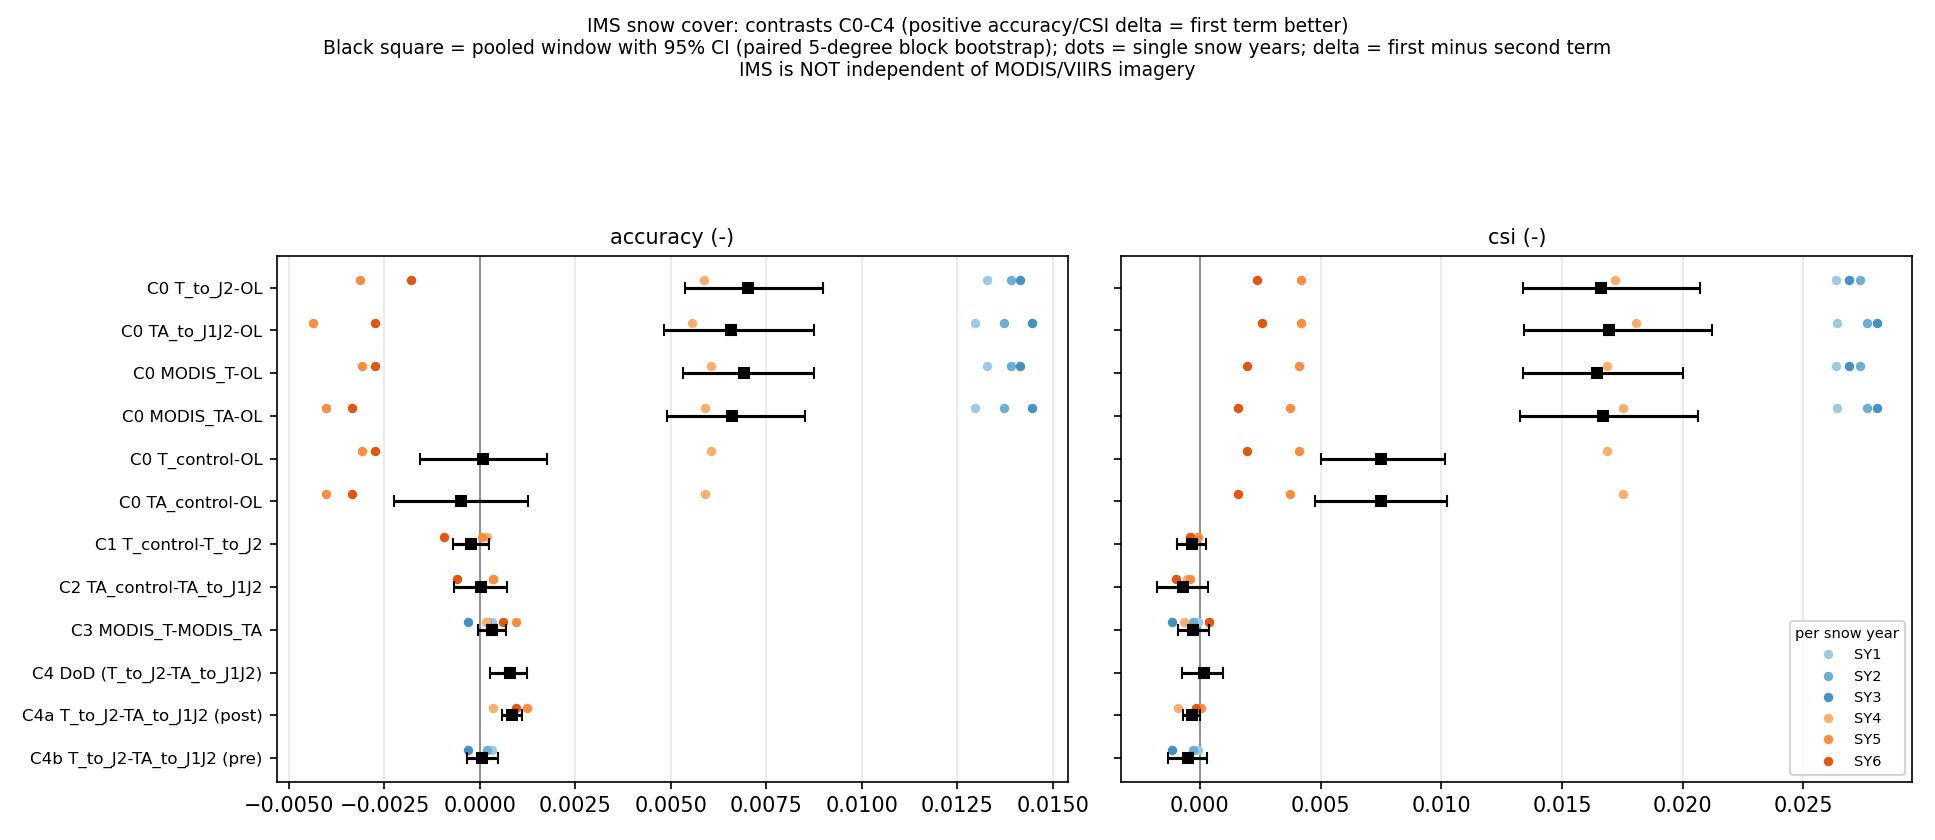
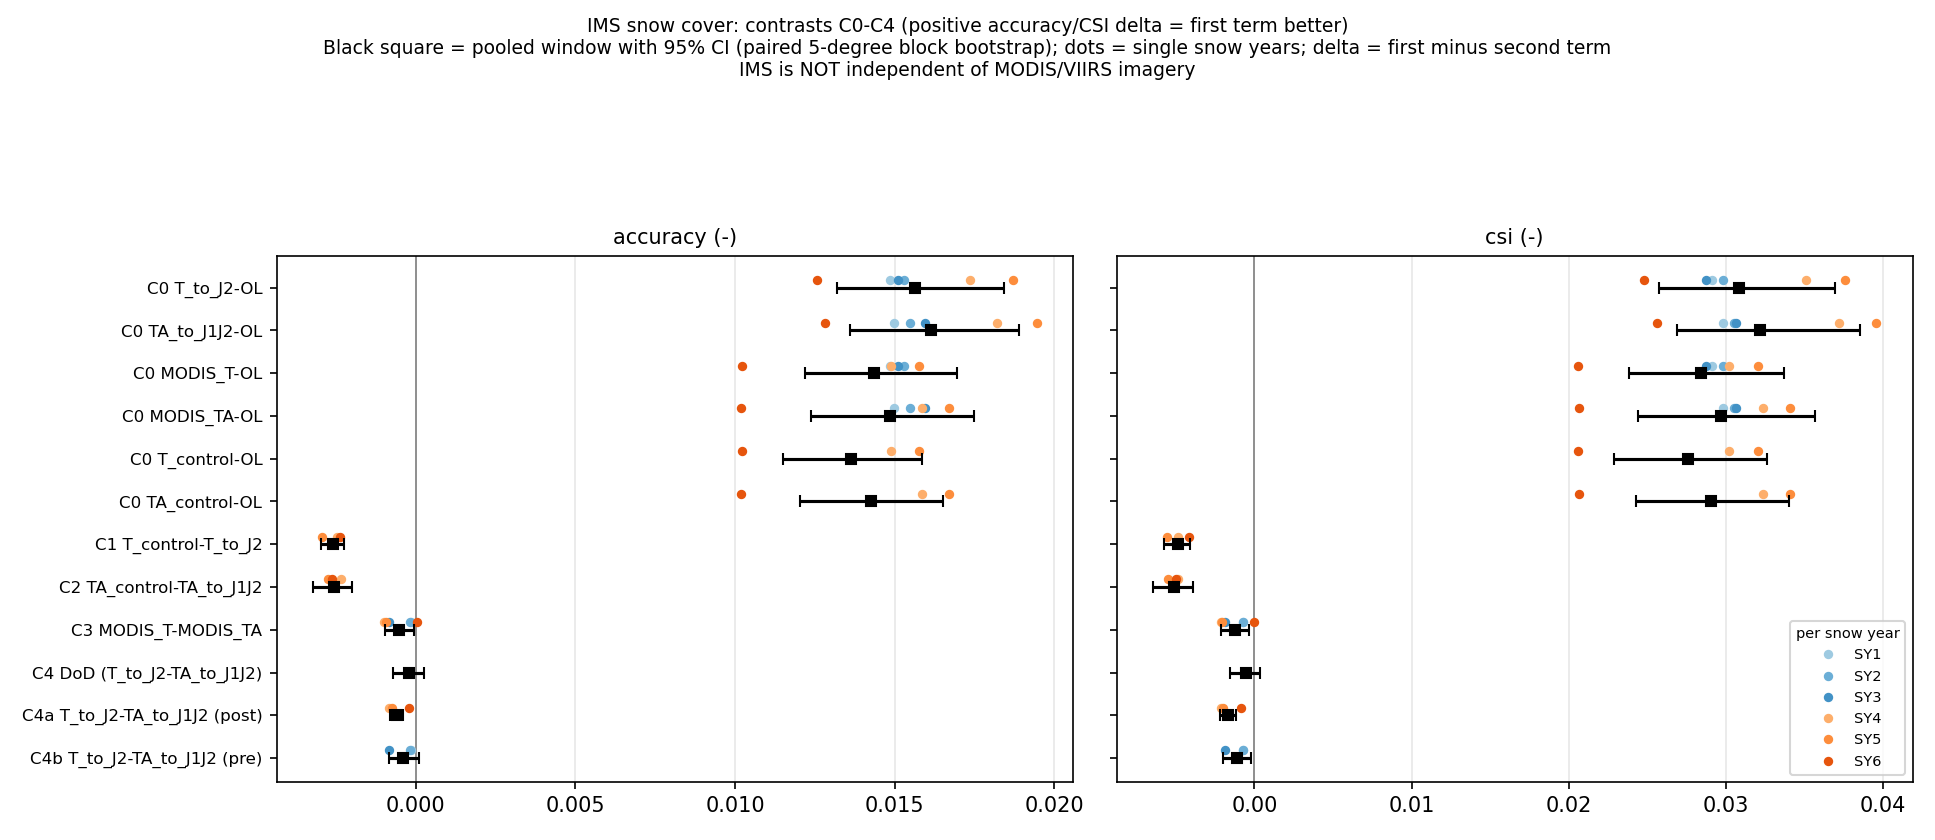
viirs_snow: propagate corrected IMS to report/plan/figC_1; GHCN CI fix; extra gap days; B/D reconcile

diff --git a/projects/viirs_snow/scripts/viirs_transition/skill_figures.py b/projects/viirs_snow/scripts/viirs_transition/skill_figures.py
@@ -7,6 +7,9 @@ import matplotlib.pyplot as plt
 sys.path.insert(0, str(Path(__file__).parent))
 import skill_common as sc
 ct = pd.read_csv(sc.FIG / "C_skill_contrasts.csv"); ab = pd.read_csv(sc.FIG / "C_skill_by_arm.csv")
+# IMS rows: use the flip-corrected scoring (IMS_skill_contrasts_fixed.csv; 2024+ IMS arrays are vertically flipped in the original C scoring)
+_fx = pd.read_csv(sc.FIG / "IMS_skill_contrasts_fixed.csv").assign(dataset="IMS")
+ct = pd.concat([ct[ct.dataset != "IMS"], _fx[[c for c in ct.columns if c in _fx.columns]]], ignore_index=True)
 ORDER = ["C0 T_to_J2-OL", "C0 TA_to_J1J2-OL", "C0 MODIS_T-OL", "C0 MODIS_TA-OL", "C0 T_control-OL", "C0 TA_control-OL",
          "C1 T_control-T_to_J2", "C2 TA_control-TA_to_J1J2", "C3 MODIS_T-MODIS_TA", "C4 DoD (T_to_J2-TA_to_J1J2)",
          "C4a T_to_J2-TA_to_J1J2 (post)", "C4b T_to_J2-TA_to_J1J2 (pre)"]

diff --git a/projects/viirs_snow/docs/viirs_transition_report.md b/projects/viirs_snow/docs/viirs_transition_report.md
@@ -29,7 +29,9 @@ QC, number of updates per day), not of the sensors alone.
 - **Volume.** Mean annual absolute increment (kg m-2 yr-1, per tile >= 30N): Terra-only about 65-76, Terra+Aqua MODIS
   about 120-138, `TA_to_J1J2` after the switch 79-85 (a ~35% drop at the switch). The VIIRS configuration is closer to
   Terra-only in volume than to Terra+Aqua MODIS. Net/abs is 64-71% in all arms; 1.7-3.3% of increments hit the
-  5 kg m-2 cap, so no arm is cap-dominated.
+  5 kg m-2 cap, so no arm is cap-dominated. B's per-tile totals (about 79-82 kg m-2 per year for Terra+Aqua) are
+  unweighted means over tiles >= 30N; D's `I_snow` (105-134 kg m-2 per snow year) is area-weighted over the
+  seasonal-snow mask. The two agree once weighting and tile set are matched (see `BD_reconcile.md`).
 - **The first update does most of the work:** Aqua RMS O-F (SCF) goes 0.32 (OL) -> 0.244 (Terra assimilated) -> 0.237
   (Terra+Aqua); J1 0.320 -> 0.2725 (J2 only) -> 0.2689 (J1+J2).
 - **Coverage (A):** the VIIRS union covers about 6-7% fewer tiles than MODIS Terra+Aqua; J2 adds about 7% over J1.
@@ -37,9 +39,9 @@ QC, number of updates per day), not of the sensors alone.
 ## Q1. Does the MODIS -> VIIRS switch change skill and water balance?
 
 **Skill (analysis C; IMS is not independent of MODIS/VIIRS imagery, so SNOTEL SWE and GHCN depth carry the conclusion).**
-DA beats OL in all three data sets over SY1-6, but the effect is small: IMS accuracy 82.2 -> 82.9%, SNOTEL SWE RMSE
+DA beats OL in all three data sets over SY1-6, but the effect is small: IMS accuracy +0.014..+0.016 (OL 90.6% -> DA 92.1-92.3%, after the 2024+ IMS orientation fix), SNOTEL SWE RMSE
 -1.0..-1.3 mm (of ~208 mm), GHCN depth RMSE -1.2..-1.9 mm (of ~114 mm); the model has a large low bias at SNOTEL (SWE
-about -134 mm). For the switch (C1, C2) IMS shows no resolvable difference. Against SNOTEL SWE the MODIS control is resolvably worse than
+about -134 mm). For the switch (C1, C2) IMS slightly favours VIIRS (MODIS - VIIRS accuracy -0.0026 for both, same sign in SY4-6, CI excludes 0; about 17% of the DA - OL effect; IMS is not independent of the imagery, so this may partly reflect shared inputs). Against SNOTEL SWE the MODIS control is resolvably worse than
 VIIRS only for Terra vs J2 (RMSE +0.39 mm, same sign all three years, CI excludes 0); for T+A vs J1+J2 (+0.26 mm) the CI
 excludes 0 but SY6 reverses, so it is not resolvable. Against GHCN depth both are resolvable (+0.93 / +0.23 mm). SNOTEL depth
 is not resolvable for C1 or C2. These differences are one to two orders of magnitude smaller than the RMSE.
@@ -69,34 +71,33 @@ m3 m-3 as a year mean.
   -0.0058], resolvable in every season. About 74% of mask tiles are marked for `I_snow` (same sign in all 6 years and
   FDR-corrected t-test); end-of-melt SWE almost none. `I_snow`, ET, runoff and RZMC pass the rule; peak SWE does not (+0.16; mean 14% of the reference, below 10% in at least one year). Against independent data Aqua helps slightly
   (resolvable by the skill rule): SNOTEL SWE RMSE +0.23 mm and GHCN +0.60 mm for Terra-only, but Terra-only is better against SNOTEL depth
-  (-0.53 mm; also resolvable) and IMS is ~0 (+0.0003, CI includes 0, not resolvable). So dropping Aqua changes the water budget a lot and the skill very
+  (-0.53 mm; also resolvable) and IMS is about 0 (-0.0005 [-0.0010, -0.0001], but SY6 is 0.0000 so the same-sign rule is not met; not flagged). So dropping Aqua changes the water budget a lot and the skill very
   little.
 - **VIIRS, J2 vs J1+J2 (C4).** Raw J2-only - J1+J2: `I_snow` about -14 (-14.3, -13.6, -14.1), runoff about -8, same sign
   in all three years (passes the rule for `I_snow`, ET, runoff, peak SWE, RZMC). As a difference of differences (subtracting the Terra - T+A gap of SY1-3) the sign flips to
   about +29 to +30, because the pre-switch gap was -43 to -48; the VIIRS second sensor therefore matters much less than
-  Aqua did in MODIS. Skill C4 is inconclusive in substance: the difference of differences has a CI that excludes 0 for IMS (+0.0008) and GHCN (-0.78 mm) (CI-only flag, no per-year signs), but the GHCN baseline has the opposite sign pre and post (+0.62 vs -0.16 mm); in the post window alone the rule flags IMS, SNOTEL SWE (+0.11 mm) and GHCN (-0.16 mm), not SNOTEL depth. Use C3 as the primary constellation estimate.
+  Aqua did in MODIS. Skill C4 is inconclusive in substance: the difference of differences has a CI that excludes 0 for GHCN (-0.78 mm [-0.99, -0.60]) (CI-only flag, no per-year signs) but not for IMS (-0.0002 [-0.0007, 0.0003]), but the GHCN baseline has the opposite sign pre and post (+0.62 vs -0.16 mm); in the post window alone the rule flags IMS (-0.0006), SNOTEL SWE (+0.11 mm) and GHCN (-0.16 mm), not SNOTEL depth. Use C3 as the primary constellation estimate.
 - **Partition:** the missing second-sensor water is mostly runoff (C3, C2) and for C4 storage differs (-0.14 of the
   difference), so interpret C4 partition with care.
 
 ## Transition behaviour (analysis E) and sensitivities
 
 - **No spin-up at the 2023-08-01 switch.** The VIIRS-arm / MODIS-control ratio of weekly NH absolute increments is the same
-  from week 0 in 2023 as in 2024 and 2025; J1/J2 counts and O-F are within the 2024-25 range (except an unexplained 25-30%
-  dip in J1/J2 counts in week 8 of 2023). The first 8 weeks hold about 1.1-1.2% of the NH SWE integral. **No exclusion
-  window is needed**; masking 1-28 Aug for C1/C2 is a conservative option (< 0.5% of the integral).
+  from week 0 in 2023 as in 2024 and 2025; J1/J2 counts and O-F are within the 2024-25 range (except a 25-30%
+  dip in J1 counts in week 8 of 2023, J1 only, caused by a missing input file on 2023-09-30 and a half-size one on 2023-10-01; see E2). The first 8 weeks hold about 1.1-1.2% of the NH SWE integral. **No exclusion
+  window is needed**; masking 1-28 Aug for C1/C2 is a conservative option (< 0.5% of the integral) and was shown in E2 to be a no-op for skill.
 - **SY1 storage is a real transient, not a restart artefact:** DA - OL storage builds to +18 (T+A) and +11 (Terra) kg m-2
   in SY1 and plateaus. Excluding SY1 lowers the pooled T+A dStorage from 4.1 to 1.3 but barely changes `I_snow`,
   runoff or C3.
 - **Input gaps** (days with no obs from an assimilated sensor) lower DA - OL `I_snow` by 1-2% when removed from every
-  arm (C3 -45.98 -> -44.98; C1 1.38 -> 1.91, still not resolvable). Cause: files missing in the `gmao_ops` archive.
+  arm (C3 -45.98 -> -44.98; C1 1.38 -> 1.91, still not resolvable). Cause: files missing in the `gmao_ops` archive. E2 found more gap days than the 34-day list: J1 2023-09-30 (missing) and 2023-10-01 (half-size), J1 2024-02-04/05, J2 2024-02-27/28, J2 2025-09-18 (half-size); the B/D2 gap-day sensitivities have not been re-run with these.
 
 ## Open points that affect interpretation
 
-1. **IMS DA benefit turns negative in SY5-6** (-0.002..-0.004 accuracy), also in the control arms. Not a VIIRS effect,
-   cause unknown; IMS-based C1/C2 statements should wait for it.
+1. ~~IMS DA benefit turns negative in SY5-6.~~ Resolved 2026-11-21/22: a scoring artefact. IMS arrays from 2024-01-01 are flipped N-S on the M36 grid (`IMS_findings.md`). With the corrected IMS, DA beats OL in every year and arm. IMS numbers in this report use the corrected scores.
 2. **Decision rule changed after seeing results.** Confirmed 2026-11-21, but its skill part (same sign + CI) and the descriptive treatment of residual/storage replaced the pre-set 10% rule after C and D had been read; see the plan. Two skill calls change versus the preliminary rule (`rule2_changes.csv`): C2 SNOTEL depth (now not resolvable) and C4-post SNOTEL SWE (now resolvable).
-3. **Increment totals in B and D differ in units** (per tile >= 30N vs area-weighted mask mean): B net about 79-82 for
-   T+A, D `I_snow` about 105-134; probably denominators, not reconciled.
+3. ~~Increment totals in B and D differ~~ Reconciled (`BD_reconcile.md`): unweighted mean over tiles >= 30N (B) vs
+   area-weighted mean over the seasonal-snow mask (D); area weighting dominates. No bug.
 
 ## Caveats
 

diff --git a/projects/viirs_snow/docs/viirs_transition_plan.md b/projects/viirs_snow/docs/viirs_transition_plan.md
@@ -1,6 +1,6 @@
 # MODIS-to-VIIRS transition and Terra vs Terra+Aqua: analysis plan
 
-Status: **2026-11-21 (amfox + Claude). Analyses A, B, C, D (+D2) and E have all been run (`scripts/viirs_transition/`, figures and tables in `docs/viirs_transition_report_figures/`); synthesis in `viirs_transition_report.md`. The decision rule below was CONFIRMED by amfox on 2026-11-21 (after the results were seen; see there) and the IMS SY5-6 behaviour is open.** Items marked **[CHECK]** are not verified.
+Status: **2026-11-21 (amfox + Claude). Analyses A, B, C, D (+D2) and E have all been run (`scripts/viirs_transition/`, figures and tables in `docs/viirs_transition_report_figures/`); synthesis in `viirs_transition_report.md`. The decision rule below was CONFIRMED by amfox on 2026-11-21 (after the results were seen; see there) and the IMS SY5-6 behaviour was resolved 2026-11-22: a 2024+ IMS N-S flip, corrected in the scoring.** Items marked **[CHECK]** are not verified.
 Runs: `/discover/nobackup/projects/land_da/VIIRS_testing/main_run/` (README there has the run history).
 Related: `viirs_obs_study_plan.md` (reader QC, QA class 1, J1 vs J2 obs agreement). This plan is its Part C,
 on M36 and for three years instead of one CF0360 snow season.
@@ -143,7 +143,7 @@ Run 2026-11-21 (`tr_*.py`, results `E_*`): no spin-up detected; no exclusion win
 |---|---|---|
 | A obs availability | `obs_availability_*.md`, `figA_*` | VIIRS union ~6-7% fewer tiles than MODIS T+A; input gap days (below). |
 | B increments | `B_summary.md`, `B_findings.md`, `B_1..4` | Double increments only in MODIS Terra+Aqua (51-60% of increment tile-days); T+A -> J1+J2 cuts annual absolute increments ~35%. |
-| C skill | `C_skill_results.md`, `figC_1..4` | DA beats OL slightly; MODIS-vs-VIIRS and Terra-vs-T+A differences are 1-2 orders smaller than the RMSE; IMS DA benefit turns negative in SY5-6. |
+| C skill | `C_skill_results.md`, `figC_1..4` | DA beats OL slightly; MODIS-vs-VIIRS and Terra-vs-T+A differences are 1-2 orders smaller than the RMSE; IMS DA benefit is positive every year once the 2024+ IMS N-S flip is corrected (+0.014..+0.016, SY1-6); IMS slightly favours VIIRS in C1/C2 (-0.0026). |
 | D water balance | `D_water_balance_tables.md`, `D_1..5` | Budget closes; DA adds ~65-134 kg m-2 per snow year, ~half to runoff, ~half to ET; Aqua adds ~46; MODIS T+A has ~36 more than J1+J2. |
 | D2 additions | `D2_water_balance_additions.md`, `D2_1..4` | Partition fractions, RZMC response, significance maps; SY1 storage is a real transient. |
 | E transition | `E_findings.md`, `E_summary.md`, `E_1..5` | No spin-up; first 8 weeks hold ~1% of the SWE integral. |
@@ -157,7 +157,7 @@ Run 2026-11-21 (`tr_*.py`, results `E_*`): no spin-up detected; no exclusion win
 - **Decision rule (CONFIRMED by amfox, 2026-11-21).** *Honest provenance:* the original version (|A - B| >= 10% of the
   DA - OL effect, same sign in all snow years) was proposed before any results were looked at. The skill and
   descriptive-term parts below were changed **after** seeing analysis C and D, because C showed the 10% reference is
-  too weak for station skill (DA - OL is only about 1 mm RMSE at SNOTEL/GHCN and about 0 for IMS in SY4-6) and D showed
+  too weak for station skill (DA - OL is only about 1 mm RMSE at SNOTEL/GHCN and, as then scored, about 0 for IMS in SY4-6 -- later shown to be the 2024+ IMS flip artefact; with corrected IMS the DA - OL effect is about +0.014 and the IMS argument for the rule change no longer holds, whereas the station argument still does) and D showed
   spurious flags for residual and dStorage (reference near 0). The change was justified on those merits, but it is not
   pre-registered. Rule as confirmed:
   1. **Water-balance flux terms** (`I_snow`, ET, runoff, peak SWE, RZMC): a difference only if |A - B| is at least 10% of
@@ -257,9 +257,7 @@ Still open:
 4. Whether the real Terra and Aqua overpass times drifted (affects interpretation of the time-of-day confound only).
 5. ~~Availability of `PEATCLSM_FSWCHANGE` and budget-endpoint restarts.~~ **Closed 2026-11-21** (see analysis D; caveat:
    file counts from a glob also match monthly means, count dailies by date).
-6. **IMS DA benefit turns negative in SY5-SY6** (DA - OL accuracy +0.013 in SY1-3, +0.006 in SY4, -0.002..-0.004 in
-   SY5-6), also in the MODIS control arms, so it is not caused by the VIIRS switch. Cause not investigated (IMS or OL
-   change, MODIS obs quality in 2025-26, or a real effect). Check before resting any C1/C2 conclusion on IMS.
+6. ~~IMS DA benefit turns negative in SY5-SY6.~~ **Closed 2026-11-22:** scoring artefact. IMS arrays from 2024-01-01 are stored bottom-up (flipped N-S on the M36 grid; sea share 6% -> 43%). Corrected scores: DA - OL +0.014..+0.016 (SY1-6), positive in every year and arm; C1/C2 -0.0026 (same sign SY4-6); C3 -0.0005; C4 inconclusive. See `IMS_findings.md`, `rule2_skill_imsfix.csv`. The regridded 2024+ files in `projects/IMS/output/` must not be used as-is (also affects the M21C 2000-2024 IMS comparison, year 2024).
 7. Upstream status of the input gap days (below): not checked whether NSIDC has the missing MODIS days (CMR approach in
    the project memory); an optional download would let the MODIS arms use them (needs amfox's go-ahead).
 8. J1/J2 obs counts in week 8 of 2023 (26 Sep - 2 Oct) are ~25-30% below 2024-25 (analysis E); not investigated.
@@ -279,3 +277,4 @@ Still open:
 | 2026-11-21 | **Validation data fetched and verified** (`scripts/validation_data/`, data in `land_da/VIIRS_testing/validation_data/`, 28 files, 145 MB). SNOTEL 2025-10-01 to 2026-07-31 (304/304 days, 913 stations, inches; the existing parquet covers to 2025-09-30; recent values are NRCS provisional); GHCN SNWD per-year parquet 2020-08-01 to 2026-07-31 (2191/2191 days, 29,284 stations, mm); IMS 2025 and 2026 (365/365 and 212/212 days) plus M36 nearest-neighbour versions, 2020 to 2024 already in `projects/IMS/output/`. Spot checks: IMS byte-identical to the existing 2024 raw files; SNOTEL overlap differences small (10 values, consistent with NRCS revisions); GHCN vs the old OL/DA product 0.004% of shared station-days differ, with some station-days present in only one product (likely NOAA revisions; not investigated). |
 | 2026-11-21 | **Analyses B, C, D, D2 and E run** (SLURM arrays 59364204 B, 59364397/59364576 C, 59364182 D, 59364691/59364715 D2, 59364708 E). Results summarised in "Results at a glance" and `viirs_transition_report.md`. Open items 2 and 5 and the D [CHECK] closed; input-gap cause recorded; decision rule kept PROPOSED with the C finding and options; IMS SY5-6, upstream MODIS gaps, week-8 J1/J2 dip and B/D unit reconciliation added as open items. |
 | 2026-11-21 | **Decision rule confirmed by amfox** (water-balance flux terms keep 10% + same sign; skill = same sign in every year + bootstrap CI excludes 0; residual/dStorage descriptive). Set after the results were seen; flags re-run with `rule2.py`. Changed calls: C2 SNOTEL depth (difference -> none), C4 post SNOTEL SWE (none -> difference); 14 water-balance terms now descriptive. |
+| 2026-11-22 | **IMS correction propagated.** 2024+ IMS N-S flip found and corrected in scoring; `rule2.py --imsfix` re-flags skill (C1, C2 IMS now resolvable, C4 DoD IMS no longer); `C_skill_results.md`, `figC_1`, report and plan updated; open item 6 closed; extra input gap days from E2 recorded; B/D reconciliation noted. M21C 2000-2024 IMS comparison (year 2024) uses the flipped files: not yet redone. |

diff --git a/projects/viirs_snow/docs/viirs_transition_report_figures/C_skill_results.md b/projects/viirs_snow/docs/viirs_transition_report_figures/C_skill_results.md
@@ -2,8 +2,8 @@
 
 > **IMS correction (2026-11-22).** The IMS numbers originally in this file used 2024+ IMS arrays that are flipped N-S on the M36 grid (see `IMS_findings.md`).
 > All IMS statements below now use the corrected scores (`IMS_skill_by_arm_fixed.csv`, `IMS_skill_contrasts_fixed.csv`, flags in `rule2_skill_imsfix.csv`).
-> The original IMS rows in `C_skill_by_arm.csv`, `C_skill_contrasts.csv`, `C_pooled_contrasts_table.csv`, `C_decision_rule_preliminary.csv`, `rule2_skill.csv` and `figC_1_ims_contrasts.png` are
-> unchanged and still contain the flipped-IMS values (not regenerated); SNOTEL and GHCN rows are unaffected (they do not use IMS).
+> `figC_1_ims_contrasts.png` and `C_pooled_contrasts_table.csv` were regenerated from the corrected scores (`skill_figures.py` now swaps in `IMS_skill_contrasts_fixed.csv`).
+> `C_skill_by_arm.csv`, `C_skill_contrasts.csv`, `C_decision_rule_preliminary.csv` (superseded preliminary rule) and `rule2_skill.csv` still hold the original flipped-IMS values; SNOTEL and GHCN rows are unaffected (they do not use IMS).
 
 Scripts (`scripts/viirs_transition/`): `skill_common.py`, `skill_extract.py` + `skill_extract.j` (per-arm extraction, SLURM array, 3-6 min per arm),
 `skill_score.py` + `skill_score.j` (metrics, contrasts, paired 5-degree block bootstrap, 1000 draws, 3 min), `skill_figures.py`, `skill_rule.py`.
@@ -33,7 +33,7 @@ Compact intermediates: `land_da/VIIRS_testing/skill_data/skill_<arm>.npz` (not v
    (MODIS worse, same sign all years). SNOTEL depth: no resolvable difference for C1, +0.48 mm (CI spans 0) for C2. Sizes are 1-2 orders smaller than the RMSE.
 4. **C3 (Terra vs T+A, MODIS, 6 y, same start):** Aqua helps slightly against SNOTEL SWE (Terra-only RMSE +0.23 mm, same sign all 6 y) and GHCN (+0.60 mm, same sign in all years),
    but Terra-only is better against SNOTEL depth (-0.53 mm); IMS accuracy -0.0005 [-0.0010, -0.0001] (Terra-only slightly worse, but the sign is not the same in all years: SY1-5 -0.0001..-0.0010, SY6 0.0000; no flag).
-5. **C4 (J2 vs J1+J2) as a difference of differences:** IMS -0.0002 [-0.0007, 0.0003], GHCN -0.78 mm [-0.99, -0.67], SNOTEL SWE -0.10 and depth +0.27 mm (CIs span 0).
+5. **C4 (J2 vs J1+J2) as a difference of differences:** IMS -0.0002 [-0.0007, 0.0003], GHCN -0.78 mm [-0.99, -0.60], SNOTEL SWE -0.10 and depth +0.27 mm (CIs span 0).
    The baseline (Terra vs T+A in SY1-3) is of the opposite sign to the post window for GHCN (+0.62 pre, -0.16 post), so the DoD is dominated by the baseline shift; treat as inconclusive and
    use C3 as the primary estimate of what a second daily sensor adds (as in the plan).
 6. **Preliminary decision rule** (superseded by the confirmed rule, `rule2_skill.csv` / `rule2_skill_imsfix.csv`; `C_decision_rule_preliminary.csv` keeps the original, uncorrected-IMS application): reference effects (DA - OL) are only ~1 mm RMSE for station data and ~0.014 for IMS after the fix,
